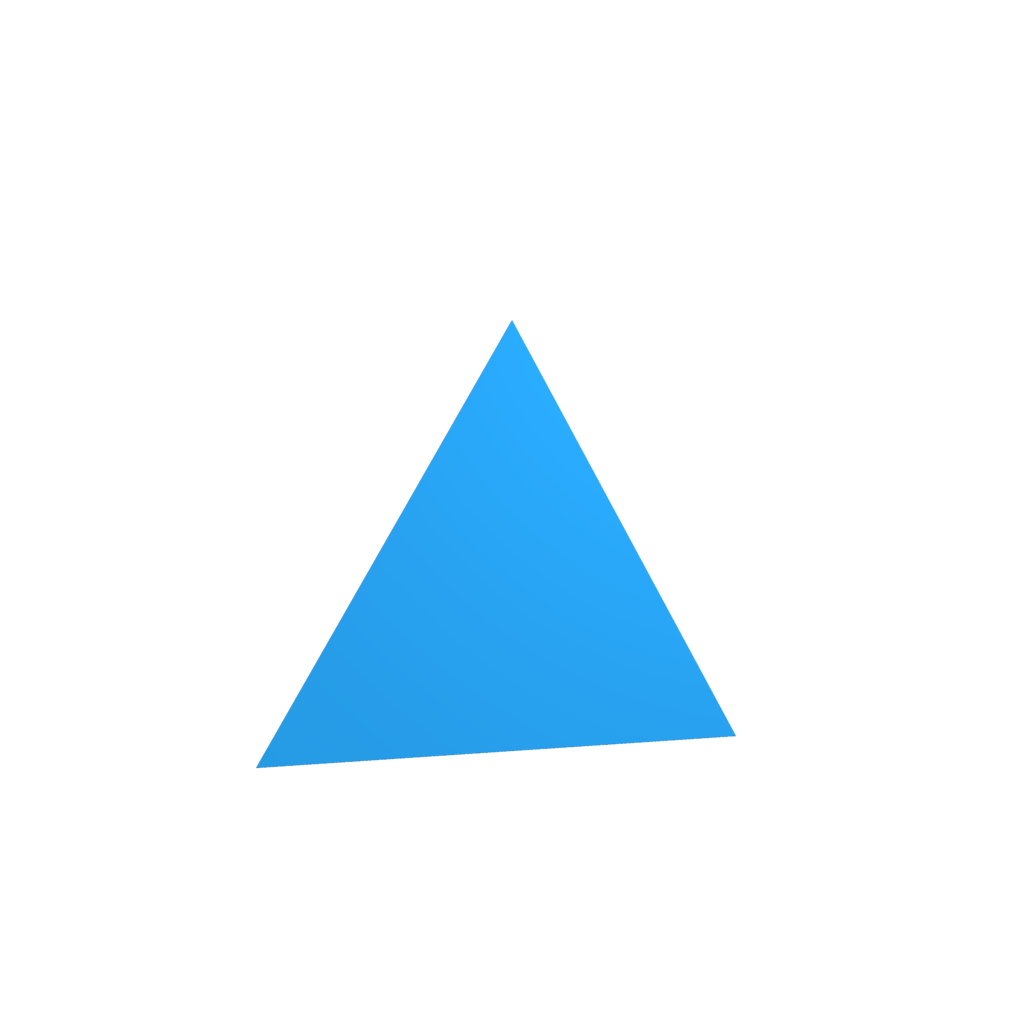
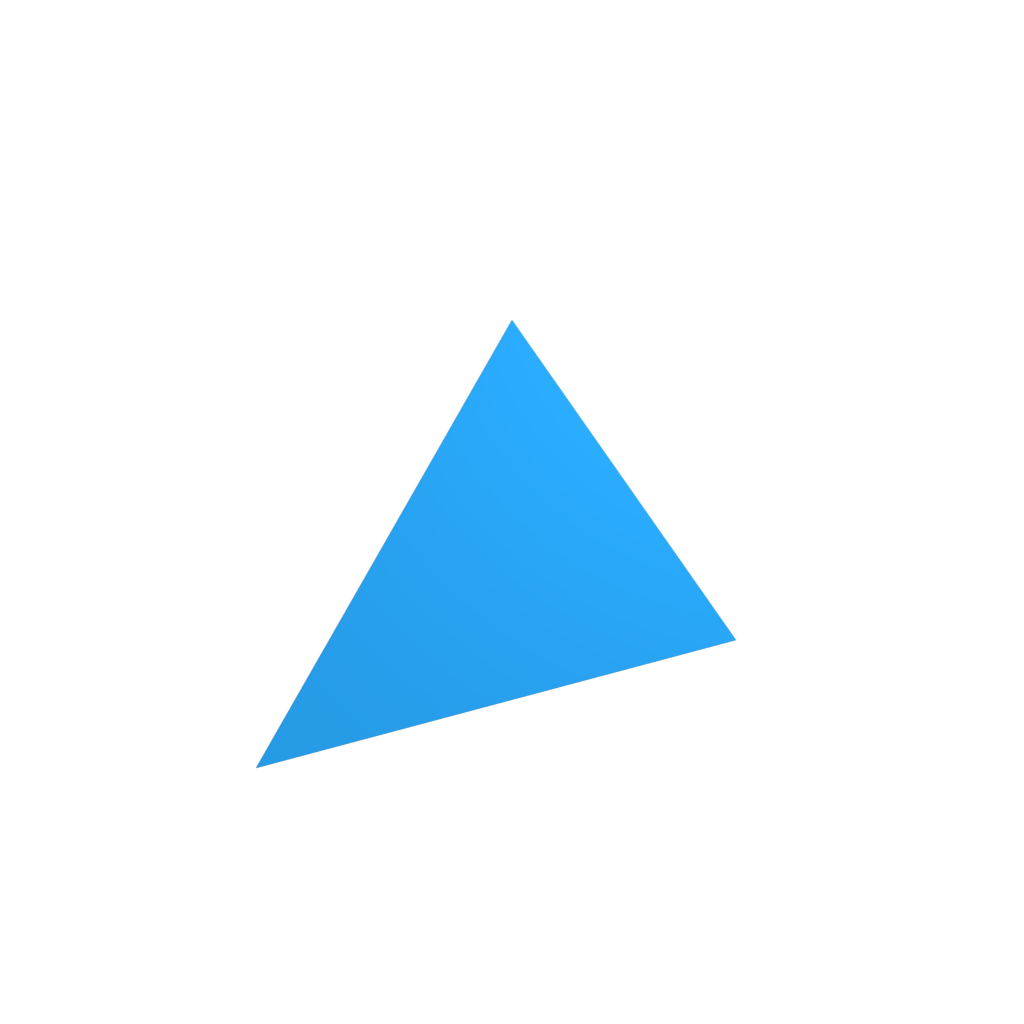
wip, update triangle to have distorted look

Changed region(s): [[0.25, 0.3125, 0.7188, 0.75]]

diff --git a/docs/render.py b/docs/render.py
@@ -259,7 +259,7 @@ generate(f, '2d_crop')
 #generate(f, '2d_line')
 
 # polygon
-f = polygon([[-16,-16],[14,-14],[0,12]]).extrude(0.1)
+f = polygon([[-16,-16],[14,-8],[0,12]]).extrude(0.1)
 generate(f, '2d_polygon')
 
 # rounded_x

diff --git a/README.md b/README.md
@@ -1003,6 +1003,6 @@ f = rounded_x(10,2).extrude(0.1)
 `polygon(points)`
 
 ```python
-f = polygon([[-16,-16],[14,-14],[0,12]]).extrude(0.1)
+f = polygon([[-16,-16],[14,-8],[0,12]]).extrude(0.1)
 ```
 
